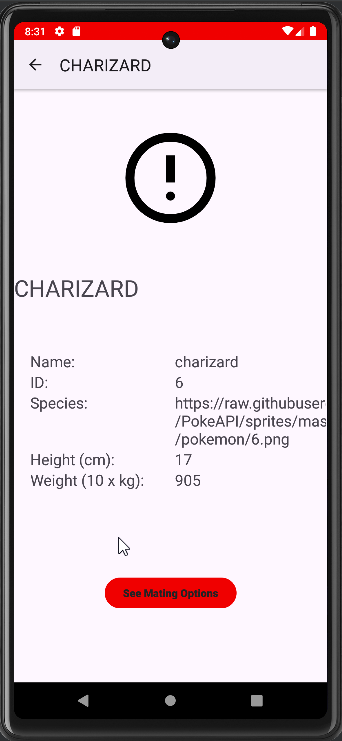
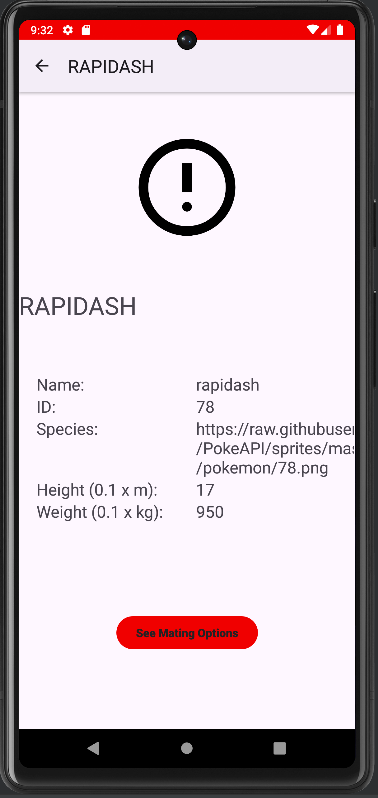
Android Assignment 4
- Updated units for Height and Weight in Pokemon Activity screen

diff --git a/Android/Java/Assignment4/README.md b/Android/Java/Assignment4/README.md
@@ -1,19 +1,14 @@
 # Android Assignment 4
 
 ## YouTube link showcasing app:
-https://youtu.be/w_hahksTWtI
+inprogress
 
 ## Project Pictures
 
-![Main Activity showing list of pokemon ](screenshots/Assignment4-MainActivity.png)
-
-![Main Activity showing end of list of pokemon ](screenshots/Assignment4-MainActivity151.png)
-
-![Pokemon Activity showing selected pokemon in more detail ](screenshots/Assignment4-PokemonDetailsActivity.png)
+![inprogress](screenshots/)
 
 
+### Landscape
 
-
-
-
+![in progress ](screenshots/)
 
